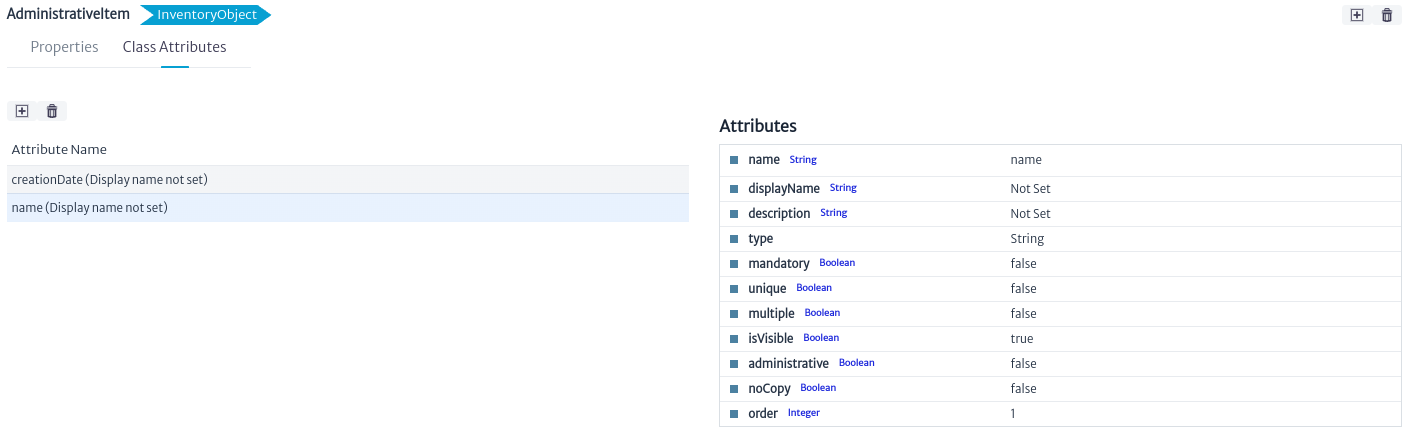
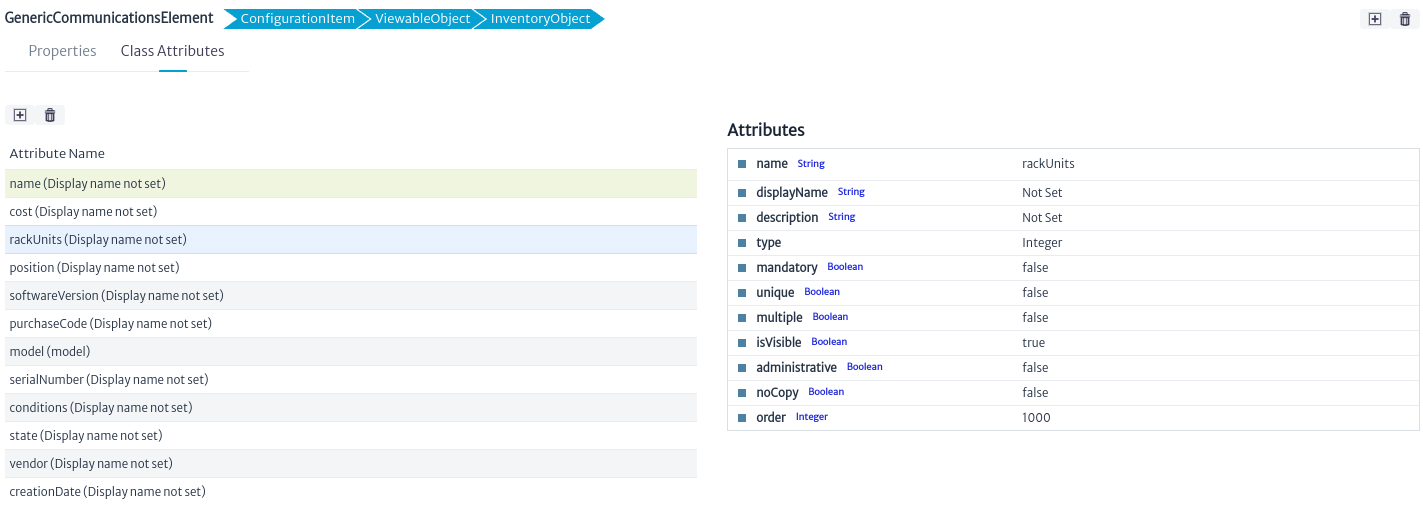
Corrected some misspelled titles and added additional information

diff --git a/user/es/src/dmman/README.MD b/user/es/src/dmman/README.MD
@@ -9,7 +9,7 @@ Para abrir el modulo de Administrador de de modelos de datos, seleccioné en el 
 |:--:|
 | **Figura 1.** Selección de modulo de Administrador de modelo de datos en el menu general |
 
-## Árbol de clases
+## Árbol de Clases
 
 El modelo de datos se representa como un árbol debido a su estructura jerárquica. Técnicamente, esto se conoce como una jerarquía de clases[^2]. En la parte superior de esta jerarquía se encuentra **InventoryObject**, el tipo de elemento más general en el modelo de datos. Sus subclases representan todos los elementos posibles que serán considerados activos del inventario.
 
@@ -23,9 +23,17 @@ A medida que se profundiza en el árbol, las clases se vuelven cada vez más esp
 |:--:|
 | **Figura 3.** Árbol de objetos del inventario expandido|
 
-### Crear una nueva clase
+En esta jerarquía, las clases más relevantes y de uso común son:
 
-Al seleccionar un ítem del *Árbol de Clases*, en la parte derecha se pueden observar dos pestañas. Este apartado también permite **Crear una nueva clase** que herede de la clase seleccionada, a través de la acción del botón ![btn new class](images/btn-new-class.png), el cual lanzará el siguiente diálogo. En este ejemplo, se ha seleccionado *AdministrativeItem* en el Árbol de Clases.
+* **InventoryObject:** Es la raíz de la jerarquía.
+* **GenericPhysicalLink:** Es la superclase de los links (conexiones entre puertos) y permite crear subclases para ampliar el tipo de conexiones existentes.
+* **ViewableObject:** Es la superclase de todos los objetos que pueden tener vistas, es decir, representaciones gráficas de un objeto seleccionado que se pueden lanzar desde la sección de *Views* del panel de objeto.
+* **GenericSplicingDevice:** Es la superclase de los objetos utilizados para operaciones de splicing, como splice boxes y fiber splitters.
+* **GenericDistributionFrame:** Es la superclase de los distribution frames, como DDFs y ODFs.
+
+### Crear una Nueva Clase
+
+Al seleccionar un ítem del *Árbol de Clases*, en la parte derecha se pueden observar dos pestañas. Este apartado también permite **Crear una Nueva Clase** que herede de la clase seleccionada, a través de la acción del botón ![btn new class](images/btn-new-class.png), el cual lanzará el siguiente diálogo. En este ejemplo, se ha seleccionado *GenericCommunicationsElement* en el Árbol de Clases.
 
 |![new class dialog](images/new-class-dialog.png)|
 |:--:|
@@ -34,7 +42,9 @@ Al seleccionar un ítem del *Árbol de Clases*, en la parte derecha se pueden ob
 Las pestañas que se pueden ver son:
 
 * **Propiedades:** La ventana Propiedades contiene las propiedades intrínsecas de la clase, como el nombre, la descripción, etc. Estas pueden contener cualquier tipo de carácter UTF-8 sin caracteres especiales ni espacios en blanco. Además, permite asignarle un ícono específico que se mostrará en el inventario para dicho objeto.
-  Si la clase es abstracta (no se pueden crear instancias de clases abstractas, solo se utilizan para dar consistencia al modelo de datos). El atributo **contable** no se utiliza actualmente, pero debería usarse para marcar clases cuyas instancias pueden tener representaciones gráficas, pero en realidad no forman parte del inventario, como los **Slots**. **In Design** (En diseño) es solo una manera de marcar una clase como parte de una intervención continua del modelo de datos y, por lo tanto, las clases con ese atributo marcado como *TRUE* no se pueden instanciar. El **color** es el color del ícono cuadrado predeterminado que se utiliza para mostrar el objeto en un árbol o vista. Este ícono se utilizará siempre que el atributo **Small Icon** sea nulo. **Small Icon** es el ícono que se usará en los árboles y su tamaño no puede exceder los 16x16 píxeles. **Icon** es el ícono utilizado en las vistas y tiene un tamaño máximo de 32x32 píxeles.
+  Si la clase es abstracta (no se pueden crear instancias de clases abstractas, solo se utilizan para dar consistencia al modelo de datos).
+  El atributo **contable** no se utiliza actualmente, pero debería usarse para marcar clases cuyas instancias pueden tener representaciones gráficas, pero en realidad no forman parte del inventario, como los **Slots**. **In Design** (En diseño) es solo una manera de marcar una clase como parte de una intervención continua del modelo de datos y, por lo tanto, las clases con ese atributo marcado como *TRUE* no se pueden instanciar. El **color** es el color del ícono cuadrado predeterminado que se utiliza para mostrar el objeto en un árbol o vista. Este ícono se utilizará siempre que el atributo **Small Icon** sea nulo. **Small Icon** es el ícono que se usará en los árboles y su tamaño no puede exceder los 16x16 píxeles. **Icon** es el ícono utilizado en las vistas y tiene un tamaño máximo de 32x32 píxeles.
+  Los *breadcrumbs* de la pestaña **Properties** permiten visualizar la jerarquía de clases para la clase seleccionada.
     |![dmman class properties](images/class-properties.png)|
     |:--:|
     | **Figura 6.** Propiedades del objeto seleccionado|
@@ -44,30 +54,31 @@ Las pestañas que se pueden ver son:
     > * Como convención, todas las clases abstractas llevan el prefijo **Generic**. Sin embargo, algunas clases principales (como *InventoryObject* o *AdministratorItem*) son abstractas y no siguen esta convención. Se recomienda adherirse a esta norma siempre que sea posible. A menos que tenga un conocimiento profundo del sistema, evite renombrar o eliminar clases principales, especialmente las abstractas.
     > * Para nombrar las clases y atributos, seguimos la convención del camel case. En el caso de los nombres de clase, la primera letra se escribe en mayúscula, como en *MyNewClass*. Por otro lado, para los atributos, la primera letra se escribe en minúscula, como en *myNewAttribute*. Esta práctica ayuda a mejorar la legibilidad del código y mantener una estructura consistente en el nombrado de elementos dentro de nuestro programa.
 
-* **Atributos de la Clase:** Esta sección contiene los campos de clase (atributos). En la figura de abajo, la clase *AdministrativeItem* tiene dos atributos: creationDate y name.
+* **Atributos de la Clase:** Esta sección contiene los campos de clase (atributos). En la figura a continuación, la clase GenericCommunicationsElement incluye atributos comunes, como *creationDate* y *name*, así como otros atributos específicos de la clase seleccionada.
   
   |![dmman class attributes](images/class-attributes.png)|
   |:--:|
   | **Figura 7.** Atributos de la clase seleccionada|
 
-  Haga clic en el botón junto al nombre del atributo para personalizarlo como se muestra en la figura de abajo.
-  En esta ventana, puede modificar:
-  * **name**: Cambie el nombre del atributo.
-  * **displayName**: Cambie cómo se muestra el nombre.
-  * **Description**: Proporcione una descripción para el atributo.
-  * **Type**: Seleccione el tipo del atributo (la lista desplegable mostrará tipos primitivos como Cadena, Entero, Flotante, Largo, etc., y todos los tipos de listas no abstractas disponibles). Cuando cambia el tipo de un atributo, todas las instancias existentes se actualizarán para reflejar el cambio. Esto significa que los valores del atributo modificado se convertirán al nuevo tipo si es posible (por ejemplo, de enteros a cadenas). Si la conversión no es posible, el nuevo valor se establecerá en nulo.
-
-  También puede gestionar las siguientes opciones para el atributo:
-  * **Mandatory**: Si selecciona esta opción, cada objeto de esta clase debe tener un valor para este atributo. Si habilita esta opción y ya hay objetos creados de esta clase sin un valor no nulo para este atributo, se producirá un error.
-  * **Unique**: Si está marcado, el valor de este atributo no puede repetirse en todos los objetos creados de esta clase o sus subclases. Antes de poder establecer un atributo de clase como único, debe verificar que el valor de este atributo en cada objeto creado de esta clase o sus subclases sea único.
-  * **isVisible**: Habilita o deshabilita la visibilidad del atributo. Si no está marcado, el atributo no se mostrará en las hojas de propiedades de los objetos creados a partir de esta clase.
-  * **Administrative**: Los atributos marcados como "Administrative" se mostrarán en una pestaña separada en la hoja de propiedades del objeto. Esto es útil para atributos que se utilizan sólo con fines administrativos y que podrían confundir al usuario final si se mezclan con los atributos normales.
-  * **NoCopy**: Puede elegir qué atributos no deben transferirse de un objeto a otro en una operación de copia.
-  * **order**: Se refiere al orden en que aparecerá este atributo en la hoja de propiedades.
+  Haga clic en el botón junto al nombre del atributo para personalizarlo, como se muestra en la figura a continuación.
 
   |![dmman class attribute properties](images/class-attributes-properties.png)|
   |:--:|
   | **Figura 8.** Propiedades del atributo seleccionado|
+  
+  En esta ventana, puede modificar tanto los atributos comunes como los específicos de la clase en particular. Los atributos comunes más relevantes son:
+  * **name**: Cambie el nombre del atributo.
+  * **displayName**: Cambie cómo se muestra el nombre.
+  * **description**: Proporcione una descripción para el atributo.
+  * **type**: Seleccione el tipo del atributo (la lista desplegable mostrará tipos primitivos como Cadena, Entero, Flotante, Largo, etc., y todos los tipos de listas no abstractas disponibles). Cuando cambia el tipo de un atributo, todas las instancias existentes se actualizarán para reflejar el cambio. Esto significa que los valores del atributo modificado se convertirán al nuevo tipo si es posible (por ejemplo, de enteros a cadenas). Si la conversión no es posible, el nuevo valor se establecerá en nulo.
+
+  También puede gestionar las siguientes opciones para el atributo:
+  * **mandatory**: Si selecciona esta opción, cada objeto de esta clase debe tener un valor para este atributo. Si habilita esta opción y ya hay objetos creados de esta clase sin un valor no nulo para este atributo, se producirá un error.
+  * **unique**: Si está marcado, el valor de este atributo no puede repetirse en todos los objetos creados de esta clase o sus subclases. Antes de poder establecer un atributo de clase como único, debe verificar que el valor de este atributo en cada objeto creado de esta clase o sus subclases sea único.
+  * **isVisible**: Habilita o deshabilita la visibilidad del atributo. Si no está marcado, el atributo no se mostrará en las hojas de propiedades de los objetos creados a partir de esta clase.
+  * **administrative**: Los atributos marcados como "Administrative" se mostrarán en una pestaña separada en la hoja de propiedades del objeto. Esto es útil para atributos que se utilizan sólo con fines administrativos y que podrían confundir al usuario final si se mezclan con los atributos normales.
+  * **noCopy**: Puede elegir qué atributos no deben transferirse de un objeto a otro en una operación de copia.
+  * **order**: Se refiere al orden en que aparecerá este atributo en la hoja de propiedades.
 
   > **Importante**
   > * Puede perder información al cambiar el tipo de un atributo. Asegúrese de que la conversión al nuevo tipo sea posible antes de realizar el cambio.  
@@ -80,17 +91,19 @@ Las pestañas que se pueden ver son:
   |:--:|
   | **Figura 9.** Nuevo atributo de la clase seleccionada|
 
-## Tipos de lista
+## Tipos de Lista
 
 Los tipos de lista son atributos que señalan un elemento dentro de un conjunto limitado de objetos. A diferencia de la mayoría de los atributos, que son de tipos primitivos como Cadena, Entero, Booleano, etc., algunos son más complejos, siendo en realidad objetos adicionales en la base de datos. Un ejemplo de esto son atributos como proveedor, que señala un objeto que contiene información sobre el proveedor del equipo (líneas de soporte, gerente de cuentas, etc.), o estado, que describe el estado operativo actual del equipo (Trabajando, No funciona, Almacenado, etc.). El estado en sí mismo es un objeto ya que puede contener información sobre los próximos estados permitidos.
 
 Muchos objetos en la base de datos compartirán el mismo proveedor, al igual que muchos otros compartirán el mismo estado. En términos de bases de datos relacionales, esto puede considerarse como una relación de muchos a uno.
 
-|[dmman list types](images/dmman-lyst-types-expanded.png)|
+Para más detalles y casos de uso, consulte el [List Type Manager](./administration/ltman/README.MD).
+
+|![dmman list types](images/dmman-lyst-types-expanded.png)|
 |:--:|
 | **Figura 10.** Tipos de lista|
 
-### Crear un nuevo tipo de lista
+### Crear un Nuevo Tipo de Lista
 
 Seleccione una subclase en *GenericObjectList* o en una de sus subclases de utilidad, en la parte derecha se pueden observar dos pestañas. Este apartado también permite **Crear un nuevo tipo de listas**, a través de la acción del botón ![btn new class](images/btn-new-class.png), el cual lanzará el siguiente diálogo. En este ejemplo, se ha seleccionado *GenericObjectList*.
 
@@ -119,15 +132,15 @@ Las pestañas que se pueden ver son:
   En esta ventana, puede modificar:
   * **name**: Cambie el nombre del atributo.
   * **displayName**: Cambie cómo se muestra el nombre.
-  * **Description**: Proporcione una descripción para el atributo.
-  * **Type**: Seleccione el tipo del atributo (la lista desplegable mostrará tipos primitivos como Cadena, Entero, Flotante, Largo, etc., y todos los tipos de listas no abstractas disponibles). Cuando cambia el tipo de un atributo, todas las instancias existentes se actualizarán para reflejar el cambio. Esto significa que los valores del atributo modificado se convertirán al nuevo tipo si es posible (por ejemplo, de enteros a cadenas). Si la conversión no es posible, el nuevo valor se establecerá en nulo.
+  * **description**: Proporcione una descripción para el atributo.
+  * **type**: Seleccione el tipo del atributo (la lista desplegable mostrará tipos primitivos como Cadena, Entero, Flotante, Largo, etc., y todos los tipos de listas no abstractas disponibles). Cuando cambia el tipo de un atributo, todas las instancias existentes se actualizarán para reflejar el cambio. Esto significa que los valores del atributo modificado se convertirán al nuevo tipo si es posible (por ejemplo, de enteros a cadenas). Si la conversión no es posible, el nuevo valor se establecerá en nulo.
 
   También puede gestionar las siguientes opciones para el atributo:
-  * **Mandatory**: Si selecciona esta opción, cada objeto de esta clase debe tener un valor para este atributo. Si habilita esta opción y ya hay objetos creados de esta clase sin un valor no nulo para este atributo, se producirá un error.
-  * **Unique**: Si está marcado, el valor de este atributo no puede repetirse en todos los objetos creados de esta clase o sus subclases. Antes de poder establecer un atributo de clase como único, debe verificar que el valor de este atributo en cada objeto creado de esta clase o sus subclases sea único.
+  * **mandatory**: Si selecciona esta opción, cada objeto de esta clase debe tener un valor para este atributo. Si habilita esta opción y ya hay objetos creados de esta clase sin un valor no nulo para este atributo, se producirá un error.
+  * **unique**: Si está marcado, el valor de este atributo no puede repetirse en todos los objetos creados de esta clase o sus subclases. Antes de poder establecer un atributo de clase como único, debe verificar que el valor de este atributo en cada objeto creado de esta clase o sus subclases sea único.
   * **isVisible**: Habilita o deshabilita la visibilidad del atributo. Si no está marcado, el atributo no se mostrará en las hojas de propiedades de los objetos creados a partir de esta clase.
-  * **Administrative**: Los atributos marcados como "Administrative" se mostrarán en una pestaña separada en la hoja de propiedades del objeto. Esto es útil para atributos que se utilizan sólo con fines administrativos y que podrían confundir al usuario final si se mezclan con los atributos normales.
-  * **NoCopy**: Puede elegir qué atributos no deben transferirse de un objeto a otro en una operación de copia.
+  * **administrative**: Los atributos marcados como "Administrative" se mostrarán en una pestaña separada en la hoja de propiedades del objeto. Esto es útil para atributos que se utilizan sólo con fines administrativos y que podrían confundir al usuario final si se mezclan con los atributos normales.
+  * **noCopy**: Puede elegir qué atributos no deben transferirse de un objeto a otro en una operación de copia.
   * **order**: Se refiere al orden en que aparecerá este atributo en la hoja de propiedades.
 
   |![dmman class attribute properties](images/list-type-attributes-expand.png)|
@@ -141,9 +154,9 @@ Las pestañas que se pueden ver son:
 
   También puede crear ![new class attribute](images/btn-new-class.png) y eliminar ![delete class attribute](images/btn-delete-attrib.png) atributos haciendo clic en los botones correspondientes. En el caso de crear un nuevo atributo, se mostrará un cuadro de diálogo como el que se muestra a continuación, donde se solicitarán el *Name*, *DisplayName* y *Type*, cuya descripción se encuentra detallada en el párrafo anterior.
 
-  |![dmman class attribute properties](images/new-class-attribute-dialog.png)|
+  |![dmman class attribute properties](images/new-list-type-property-dialog.png)|
   |:--:|
-  | **Figura 15.** Nuevo atributo del tipo de lista seleccionado|
+  | **Figura 15.** Nuevo atributo para el tipo de lista seleccionado|
 
 [^1]: Programación orientada a objetos [https://en.wikipedia.org/wiki/Object-oriented_programming](https://en.wikipedia.org/wiki/Object-oriented_programming)
 [^2]:Jerarquía de clases [https://en.wikipedia.org/wiki/Class_hierarchy](https://en.wikipedia.org/wiki/Class_hierarchy)

diff --git a/user/en/src/dmman/README.MD b/user/en/src/dmman/README.MD
@@ -9,7 +9,7 @@ To open the Data Model Manager module, I selected *Options -> Data Model Manager
 |:--:|
 | **Figure 1.** Data Model Manager module selection in the general menu |
 
-## Class tree
+## Class Tree
 
 The data model is represented as a tree due to its hierarchical structure. Technically, this is known as a class hierarchy[^2]. At the top of this hierarchy is **InventoryObject**, the most general item type in the data model. Its subclasses represent all possible items that will be considered inventory assets.
 
@@ -23,9 +23,17 @@ As you go deeper into the tree, classes become increasingly specialized and each
 |:--:|
 | **Figure 3.** Expanded inventory item tree|
 
-### Create a new class
+In this hierarchy, the most relevant and commonly used classes are:
 
-When selecting an item from the *Class Tree*, on the right side you can see two tabs. This section also allows you to **Create a new class** that inherits from the selected class, through the action of the button ![btn new class](images/btn-new-class.png), which will launch the following dialog . In this example, *AdministrativeItem* has been selected in the Class Tree.
+* **InventoryObject:** It is the root of the hierarchy.
+* **GenericPhysicalLink:** It is the superclass of links (connections between ports) and allows subclasses to be created to expand the type of existing connections.
+* **ViewableObject:** This is the superclass of all objects that can have views, that is, graphical representations of a selected object that can be launched from the *Views* section of the object panel.
+* **GenericSplicingDevice:** This is the superclass of objects used for splicing operations, such as splice boxes and fiber splitters.
+* **GenericDistributionFrame:** It is the superclass of distribution frames, such as DDFs and ODFs.
+
+### Create a New Class
+
+When selecting an item from the *Class Tree*, on the right side you can see two tabs. This section also allows you to **Create a New Class** that inherits from the selected class, through the action of the button ![btn new class](images/btn-new-class.png), which will launch the following dialog . In this example, *GenericCommunicationsElement* has been selected in the Class Tree.
 
 |![new class dialog](images/new-class-dialog.png)|
 |:--:|
@@ -34,7 +42,9 @@ When selecting an item from the *Class Tree*, on the right side you can see two 
 The tabs that can be seen are:
 
 * **Properties:** The Properties window contains the intrinsic properties of the class, such as name, description, etc. These can contain any type of UTF-8 character without special characters or whitespace. In addition, it allows you to assign a specific icon that will be displayed in the inventory for said object.
- If the class is abstract (instances of abstract classes cannot be created, they are only used to provide consistency to the data model). The **countable** attribute is not currently used, but should be used to mark classes whose instances may have graphical representations, but are not actually part of the inventory, such as **Slots**. **In Design** is just a way to mark a class as part of an ongoing data model intervention, and therefore classes with that attribute marked *TRUE* cannot be instantiated. The **color** is the color of the default square icon used to display the object in a tree or view. This icon will be used whenever the **Small Icon** attribute is null. **Small Icon** is the icon that will be used on the trees and its size cannot exceed 16x16 pixels. **Icon** is the icon used in views and has a maximum size of 32x32 pixels.
+ If the class is abstract (instances of abstract classes cannot be created, they are only used to provide consistency to the data model).
+ The **countable** attribute is not currently used, but should be used to mark classes whose instances may have graphical representations, but are not actually part of the inventory, such as **Slots**. **In Design** is just a way to mark a class as part of an ongoing data model intervention, and therefore classes with that attribute marked *TRUE* cannot be instantiated. The **color** is the color of the default square icon used to display the object in a tree or view. This icon will be used whenever the **Small Icon** attribute is null. **Small Icon** is the icon that will be used on the trees and its size cannot exceed 16x16 pixels. **Icon** is the icon used in views and has a maximum size of 32x32 pixels.
+ The *breadcrumbs* on the **Properties** tab allow you to view the class hierarchy for the selected class.
   |![dmman class properties](images/class-properties.png)|
   |:--:|
   | **Figure 6.** Properties of the selected object|
@@ -44,30 +54,31 @@ The tabs that can be seen are:
   > * As a convention, all abstract classes are prefixed with **Generic**. However, some core classes (such as *InventoryObject* or *AdministratorItem*) are abstract and do not follow this convention. It is recommended to adhere to this rule whenever possible. Unless you have deep knowledge of the system, avoid renaming or deleting parent classes, especially abstract ones.
   > * To name the classes and attributes, we follow the camel case convention. For class names, the first letter is capitalized, as in *MyNewClass*. On the other hand, for attributes, the first letter is written in lowercase, as in *myNewAttribute*. This practice helps improve the readability of the code and maintain a consistent structure in the naming of elements within our program.
 
-* **Class Attributes:** This section contains the class fields (attributes). In the figure below, the *AdministrativeItem* class has two attributes: creationDate and name.
+* **Class Attributes:** This section contains the class fields (attributes). In the figure below, the GenericCommunicationsElement class includes common attributes, such as *creationDate* and *name*, as well as other attributes specific to the selected class.
 
   |![dmman class attributes](images/class-attributes.png)|
   |:--:|
   | **Figure 7.** Attributes of the selected class|
 
   Click the button next to the attribute name to customize it as shown in the figure below.
-  In this window, you can modify:
-  * **name**: Change the name of the attribute.
-  * **displayName**: Change how the name is displayed.
-  * **Description**: Provide a description for the attribute.
-  * **Type**: Select the type of the attribute (the drop-down list will show primitive types such as String, Integer, Float, Long, etc., and all available non-abstract list types). When the type of an attribute changes, all existing instances will be updated to reflect the change. This means that the values of the modified attribute will be converted to the new type if possible (for example, from integers to strings). If the conversion is not possible, the new value will be set to null.
-
-  You can also manage the following options for the attribute:
-  * **Mandatory**: If you select this option, each object of this class must have a value for this attribute. If you enable this option and there are already created objects of this class without a non-null value for this attribute, an error will occur.
-  * **Unique**: If checked, the value of this attribute cannot be repeated in all objects created of this class or its subclasses. Before you can set a class attribute as unique, you must verify that the value of this attribute on each object created from this class or its subclasses is unique.
-  * **isVisible**: Enables or disables the visibility of the attribute. If unchecked, the attribute will not be displayed in the property sheets of objects created from this class.
-  * **Administrative**: Attributes marked "Administrative" will be displayed in a separate tab on the object's property sheet. This is useful for attributes that are used only for administrative purposes and that could confuse the end user if mixed with normal attributes.
-  * **NoCopy**: You can choose which attributes should not be transferred from one object to another in a copy operation.
-  * **order**: Refers to the order in which this attribute will appear in the property sheet.
 
   |![dmman class attribute properties](images/class-attributes-properties.png)|
   |:--:|
   | **Figure 8.** Properties of the selected attribute |
+
+  In this window, you can modify both common and specific class attributes. The most relevant common attributes are:
+  * **name**: Change the name of the attribute.
+  * **displayName**: Change how the name is displayed.
+  * **description**: Provide a description for the attribute.
+  * **type**: Select the type of the attribute (the drop-down list will show primitive types such as String, Integer, Float, Long, etc., and all available non-abstract list types). When the type of an attribute changes, all existing instances will be updated to reflect the change. This means that the values of the modified attribute will be converted to the new type if possible (for example, from integers to strings). If the conversion is not possible, the new value will be set to null.
+
+  You can also manage the following options for the attribute:
+  * **mandatory**: If you select this option, each object of this class must have a value for this attribute. If you enable this option and there are already created objects of this class without a non-null value for this attribute, an error will occur.
+  * **unique**: If checked, the value of this attribute cannot be repeated in all objects created of this class or its subclasses. Before you can set a class attribute as unique, you must verify that the value of this attribute on each object created from this class or its subclasses is unique.
+  * **isVisible**: Enables or disables the visibility of the attribute. If unchecked, the attribute will not be displayed in the property sheets of objects created from this class.
+  * **administrative**: Attributes marked "Administrative" will be displayed in a separate tab on the object's property sheet. This is useful for attributes that are used only for administrative purposes and that could confuse the end user if mixed with normal attributes.
+  * **noCopy**: You can choose which attributes should not be transferred from one object to another in a copy operation.
+  * **order**: Refers to the order in which this attribute will appear in the property sheet.
 
   > **Important**
   > * You may lose information when changing the type of an attribute. Make sure that conversion to the new type is possible before making the change.
@@ -80,23 +91,25 @@ The tabs that can be seen are:
   |:--:|
   | **Figure 9.** New attribute of the selected class|
 
-## List types
+## List Types
 
 List types are attributes that point to an element within a limited set of objects. Unlike most attributes, which are of primitive types such as String, Integer, Boolean, etc., some are more complex, being actually additional objects in the database. An example of this are attributes such as supplier, which points to an object that contains information about the equipment supplier (support lines, account manager, etc.), or status, which describes the current operational state of the equipment (Working, Not Working , Stored, etc.). The state itself is an object since it can contain information about the next allowed states.
 
 Many objects in the database will share the same provider, just as many others will share the same state. In relational database terms, this can be thought of as a many-to-one relationship.
 
-|[dmman list types](images/dmman-lyst-types-expanded.png)|
+For more details and use cases, see the [List Type Manager](./administration/ltman/README.MD).
+
+|![dmman list types](images/dmman-lyst-types-expanded.png)|
 |:--:|
 | **Figure 10.** List types |
 
-### Create a new type of list
+### Create a New List Type
 
 Select a subclass in *GenericObjectList* or in one of its utility subclasses, on the right side you can see two tabs. This section also allows you to **Create a new type of lists**, through the action of the ![btn new class](images/btn-new-class.png) button, which will launch the following dialog. In this example, *GenericObjectList* is selected.
 
 |![dmman class attribute properties](images/new-list-type-dialog.png)|
 |:--:|
-| **Figure 11.** Create new type of list |
+| **Figure 11.** Create new list type |
 
 The tabs that can be seen are:
 
@@ -119,15 +132,15 @@ The tabs that can be seen are:
   In this window, you can modify:
   * **name**: Change the name of the attribute.
   * **displayName**: Change how the name is displayed.
-  * **Description**: Provide a description for the attribute.
-  * **Type**: Select the type of the attribute (the drop-down list will show primitive types such as String, Integer, Float, Long, etc., and all available non-abstract list types). When the type of an attribute changes, all existing instances will be updated to reflect the change. This means that the values of the modified attribute will be converted to the new type if possible (for example, from integers to strings). If the conversion is not possible, the new value will be set to null.
+  * **description**: Provide a description for the attribute.
+  * **type**: Select the type of the attribute (the drop-down list will show primitive types such as String, Integer, Float, Long, etc., and all available non-abstract list types). When the type of an attribute changes, all existing instances will be updated to reflect the change. This means that the values of the modified attribute will be converted to the new type if possible (for example, from integers to strings). If the conversion is not possible, the new value will be set to null.
 
   You can also manage the following options for the attribute:
-  * **Mandatory**: If you select this option, each object of this class must have a value for this attribute. If you enable this option and there are already created objects of this class without a non-null value for this attribute, an error will occur.
-  * **Unique**: If checked, the value of this attribute cannot be repeated in all objects created of this class or its subclasses. Before you can set a class attribute as unique, you must verify that the value of this attribute on each object created from this class or its subclasses is unique.
+  * **mandatory**: If you select this option, each object of this class must have a value for this attribute. If you enable this option and there are already created objects of this class without a non-null value for this attribute, an error will occur.
+  * **unique**: If checked, the value of this attribute cannot be repeated in all objects created of this class or its subclasses. Before you can set a class attribute as unique, you must verify that the value of this attribute on each object created from this class or its subclasses is unique.
   * **isVisible**: Enables or disables the visibility of the attribute. If unchecked, the attribute will not be displayed in the property sheets of objects created from this class.
-  * **Administrative**: Attributes marked "Administrative" will be displayed in a separate tab on the object's property sheet. This is useful for attributes that are used only for administrative purposes and that could confuse the end user if mixed with normal attributes.
-  * **NoCopy**: You can choose which attributes should not be transferred from one object to another in a copy operation.
+  * **administrative**: Attributes marked "Administrative" will be displayed in a separate tab on the object's property sheet. This is useful for attributes that are used only for administrative purposes and that could confuse the end user if mixed with normal attributes.
+  * **noCopy**: You can choose which attributes should not be transferred from one object to another in a copy operation.
   * **order**: Refers to the order in which this attribute will appear in the property sheet.
 
   |![dmman class attribute properties](images/list-type-attributes-expand.png)|
@@ -141,9 +154,9 @@ The tabs that can be seen are:
 
   You can also create ![new class attribute](images/btn-new-class.png) and delete ![delete class attribute](images/btn-delete-attrib.png) attributes by clicking the corresponding buttons. In the case of creating a new attribute, a dialog box like the one shown below will be displayed, where the *Name*, *DisplayName* and *Type* will be requested, the description of which is detailed in the previous paragraph.
 
-  |![dmman class attribute properties](images/new-class-attribute-dialog.png)|
+  |![dmman class attribute properties](images/new-list-type-property-dialog.png)|
   |:--:|
-  | **Figure 15.** New attribute of the selected list type|
+  | **Figure 15.** New attribute for selected list type|
 
 [^1]: Object-oriented programming [https://en.wikipedia.org/wiki/Object-oriented_programming](https://en.wikipedia.org/wiki/Object-oriented_programming)
 [^2]:Class hierarchy [https://en.wikipedia.org/wiki/Class_hierarchy](https://en.wikipedia.org/wiki/Class_hierarchy)
